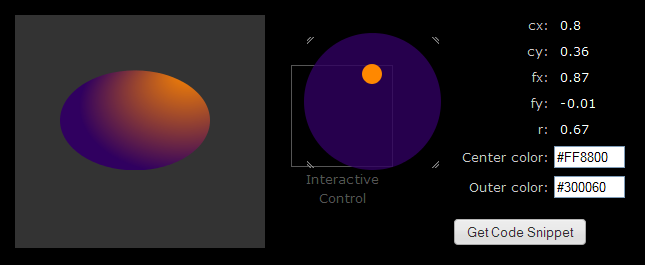
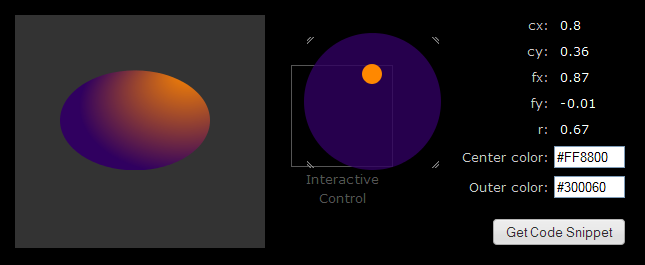
Added Panel for code snippet to #2531364: Add Graphics tool to visualize radial gradients

Changed region(s): [[0.6822, 0.8151, 0.9922, 0.9358]]

diff --git a/src/graphics/docs/assets/js/radial-tool.js b/src/graphics/docs/assets/js/radial-tool.js
@@ -1,4 +1,4 @@
-YUI({filter:"raw"}).use('graphics','dd','event-key','dd-delegate','dd-constrain','resize','json', 'cssbutton', 'cssbutton', function (Y){
+YUI({filter:"raw"}).use('graphics','dd','event-key','dd-delegate','dd-constrain','resize','json', 'cssbutton', 'panel', 'dd-plugin', function (Y){
     
     
 ///////////////////// gradient UI controls //////////////////////
@@ -71,11 +71,9 @@ YUI({filter:"raw"}).use('graphics','dd','event-key','dd-delegate','dd-constrain'
     });
     resize.after('resize:end', function(){
         recenterGradientR();
-        closeCode();
     });
     resize.after('resize:resize', function(){    // seem to need both resize:resize and resize:end
         recenterGradientR();
-        closeCode();
     });
 
 
@@ -100,7 +98,6 @@ YUI({filter:"raw"}).use('graphics','dd','event-key','dd-delegate','dd-constrain'
         outCX.setContent(theCX);
         outCY.setContent(theCY);
         updateGraphic();                
-        closeCode();
     });
     
     
@@ -114,13 +111,10 @@ YUI({filter:"raw"}).use('graphics','dd','event-key','dd-delegate','dd-constrain'
         outFX.setContent(theFX);
         outFY.setContent(theFY);
         updateGraphic();        
-        closeCode();
     });
     
     // Handle a click on the 'get code snippet' button
     Y.one('#btn-get-code').on('click', function(){
-        Y.one('#btn-close-code').setStyle('visibility', 'visible');
-        Y.one('#output-grad textarea').setStyle('visibility', 'visible');
         var html = ''+
         'var myellipse = mygraphic.addShape({\n'+
         '    type: "ellipse",\n'+
@@ -145,21 +139,12 @@ YUI({filter:"raw"}).use('graphics','dd','event-key','dd-delegate','dd-constrain'
         '    x: 35,\n'+
         '    y: 35\n'+
         '});\n';
-        var textArea = Y.one('#output-grad textarea')
+        var textArea = Y.one('#panel-content textarea')
         textArea.setContent(html);
+        panel.show();
         textArea.focus();
         textArea.select();
-        
-    });
-    var closeCode = function(){
-        var tarea = Y.one('#output-grad textarea');
-        if(tarea.getStyle('visibility') === 'visible'){
-            Y.one('#btn-close-code').setStyle('visibility', 'hidden');
-            tarea.setStyle('visibility', 'hidden');
-        }
-    }
-    Y.one('#btn-close-code').on('click', function(){
-        closeCode();
+        textArea.scrollTop();
     });
     Y.one('#center-color').on('change', function(){
         centerColor = this.get('value');
@@ -169,7 +154,6 @@ YUI({filter:"raw"}).use('graphics','dd','event-key','dd-delegate','dd-constrain'
                 {color: outerColor, opacity:1, offset:1}
             ];
         updateGraphic();
-        closeCode();
     });
     Y.one('#outer-color').on('change', function(){
         outerColor = this.get('value');
@@ -179,7 +163,6 @@ YUI({filter:"raw"}).use('graphics','dd','event-key','dd-delegate','dd-constrain'
                 {color: outerColor, opacity:1, offset:1}
             ];
         updateGraphic();
-        closeCode();
     });
 ///////////////////// END gradient UI controls //////////////////////
 
@@ -216,4 +199,29 @@ YUI({filter:"raw"}).use('graphics','dd','event-key','dd-delegate','dd-constrain'
     }
 
     loadGraphics();
+    
+    
+    ////////////////////////////////////////
+    var panel = new Y.Panel({
+        bodyContent: '<div class="textarea-box"><textarea></textarea></div>',
+        headerContent: 'Code Snippet',
+        width        : 350,
+        height       : 400,
+        zIndex       : 5,
+        centered     : true,
+        modal        : true,
+        visible      : false,
+        render       : '#panel-content',
+        plugins      : [Y.Plugin.Drag]
+    });
+
+    panel.addButton({
+        value  : 'Close',
+        section: Y.WidgetStdMod.FOOTER,
+        action : function (e) {
+            e.preventDefault();
+            panel.hide();
+        }
+    });    
+    
 });

diff --git a/src/panel/tests/manual/panel-skin-test.html b/src/panel/tests/manual/panel-skin-test.html
@@ -1,0 +1,45 @@
+<!DOCTYPE html>
+
+<head>
+<style>
+</style>
+<script type="text/javascript" src="../../../../build/yui/yui-debug.js"></script> 
+<link type="text/css" rel="stylesheet" href="../../../../build/panel/assets/skins/night/panel.css" charset="utf-8">
+
+</head>
+
+<body class="yui3-skin-sam">
+    <div class="yui3-skin-night">
+        <div id="panel"></div>
+    </div>
+
+<script type="text/javascript">
+
+	YUI({filter:"raw"}).use('panel', function(Y) {
+
+    var panel = new Y.Panel({
+        bodyContent: '<p>Is this text white on white?</p><p>body CSS seems like mixture of yui3-skin-sam</p>',
+        headerContent: 'Header CSS seems like yui3-skin-sam',
+        width        : 350,
+        height       : 400,
+        zIndex       : 5,
+        centered     : true,
+        modal        : true,
+        visible      : true,
+        render       : '#panel'
+    });
+
+    panel.addButton({
+        value  : 'Close',
+        section: Y.WidgetStdMod.FOOTER,
+        action : function (e) {
+            e.preventDefault();
+            panel.hide();
+        }
+    });    
+
+
+	});
+	</script>
+</body>
+</html>
